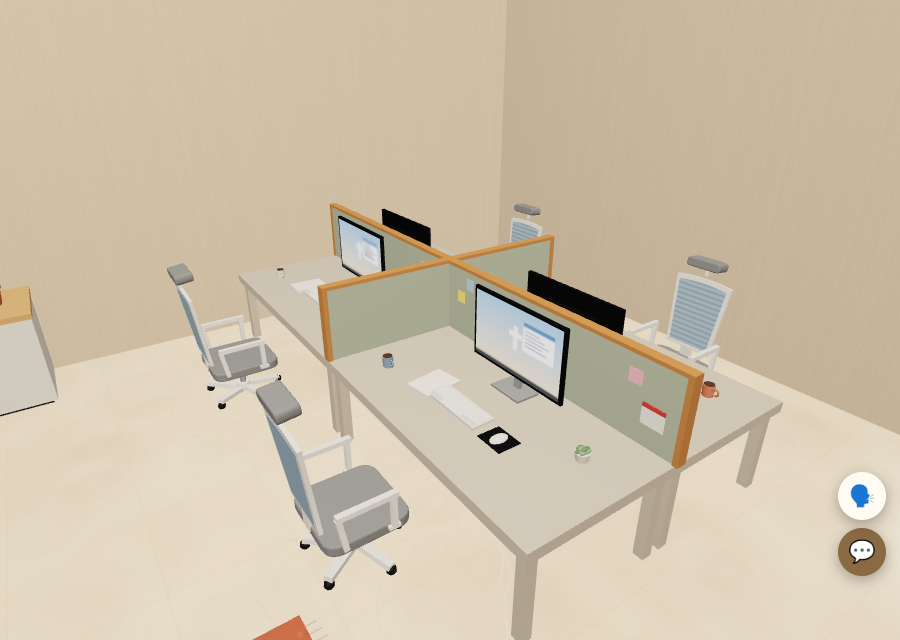
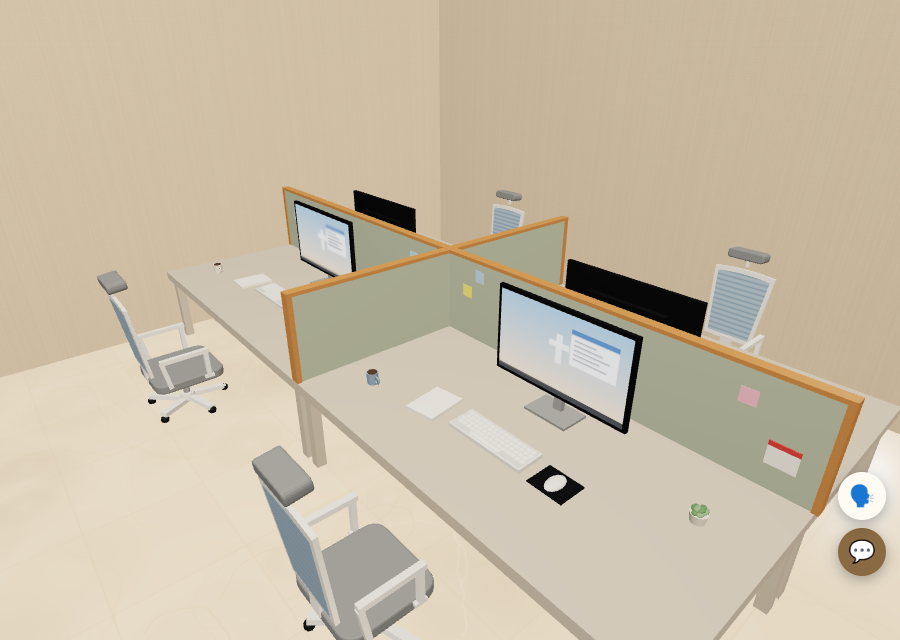
2층 사무실: 붙인 책상을 1.5×0.75m로 크게(칸막이 0.34m, 모니터 1.15배), 4인 탁자는 0.8×1.0m로 작게 + 카페트 1.7×2.0m · 의자·소품 맞춰 옮김
Claude-Session: https://claude.ai/code/session_01Vz1QJf3UdmpjXu7m5EnhFF

diff --git a/index.html b/index.html
@@ -1752,8 +1752,8 @@
           for (let i = 0; i < n; i++) { const t = (i - (n - 1) / 2) * ((len - 0.2) / n); g.userData.seats.push({ x: x + c * t + sn * 0.14, z: z - sn * t + c * 0.14, y: Y + 0.22, rot: rotY, kind: 'chair' }); }
         },
         // 컴퓨터 한 벌: 받침 달린 얇은 모니터(바탕화면) · 키보드 · 마우스와 패드. rotY: 앉은 사람 쪽(화면 앞)이 보는 방향 (0 = +z). 책상 윗면 0.38
-        computer(x, z, rotY) {
-          const g = new THREE.Group(); g.position.set(x, Y + 0.38, z); g.rotation.y = rotY; group.add(g);
+        computer(x, z, rotY, sc) {                                                   // sc = 크기 (없으면 1)
+          const g = new THREE.Group(); g.position.set(x, Y + 0.38, z); g.rotation.y = rotY; if (sc) g.scale.setScalar(sc); group.add(g);
           const M = (c, r, mt) => new THREE.MeshStandardMaterial({ color: c, roughness: r, metalness: mt || 0 });
           const dark = k._pcD || (k._pcD = M(0x1d1f23, 0.4)), silver = k._pcS || (k._pcS = M(0xc4c8cd, 0.3, 0.4)), keyM = k._pcK || (k._pcK = M(0xf1f1ef, 0.5));
           const scr = k._pcScr || (k._pcScr = (() => {                                 // 바탕화면: 하늘빛 그러데이션 + 작은 십자가 + 창 하나 + 아래 줄
@@ -2005,16 +2005,16 @@
       //   사용자 "공간이 허하다" → 회의 탁자 아래 따뜻한 카페트, 회의 의자는 크림색 부클레 원형 의자로, 동쪽 벽에 작은 홈카페장
       {
         const dk = k.M(0xcfc6b8), scr = k.M(0x22303f, 0.3);
-        k.table(-9.0, -4.6, 1.0, 1.4, k.M(0xa77b50));                              // 회의 탁자 (윗면 0.38)
+        k.table(-9.6, -4.3, 0.8, 1.0, k.M(0xa77b50));                              // 4인 탁자 (윗면 0.38) — 사용자 "탁자 자리는 작게"로 1.0×1.4 → 0.8×1.0
         const d = decoKit(F2_Y, f2);
-        // 0) 책상 4개를 한 덩어리로 붙임 (사용자 "책상들이 좀 붙어 있게, 파티션"): 북쪽 벽 앞에 2 × 2로 마주 보게
+        // 0) 책상 4개를 한 덩어리로 붙임 (사용자 "책상들이 좀 붙어 있게, 파티션" → "좀 더 크게"): 북쪽 벽 앞에 2 × 2로 마주 보게, 책상 1.5 × 0.75m · 모니터 1.15배
         //    북쪽 줄은 남쪽을 보고(의자는 벽 쪽), 남쪽 줄은 북쪽을 봄. 모니터는 가운데 칸막이 쪽.
         //    칸막이: 마주 보는 줄 사이 · 옆 책상 사이, 책상 위 0.3m 세이지 회색 천 + 원목 테, 칸막이에 메모지·달력
         {
-          const PX = [-11.45, -10.25], ZM = -6.95, DW = 1.2, DD = 0.6, PT = 0.38, PH = 0.3;
+          const PX = [-11.4, -9.9], ZM = -7.1, DW = 1.5, DD = 0.75, PT = 0.38, PH = 0.34;
           PX.forEach((x) => {
-            k.table(x, ZM - DD / 2, DW, DD, dk); k.computer(x, ZM - DD / 2, Math.PI); k.officeChair(x, ZM - DD / 2 - 0.5, 0);
-            k.table(x, ZM + DD / 2, DW, DD, dk); k.computer(x, ZM + DD / 2, 0); k.officeChair(x, ZM + DD / 2 + 0.5, Math.PI);
+            k.table(x, ZM - DD / 2, DW, DD, dk); k.computer(x, ZM - DD / 2, Math.PI, 1.15); k.officeChair(x, ZM - DD - 0.2, 0);
+            k.table(x, ZM + DD / 2, DW, DD, dk); k.computer(x, ZM + DD / 2, 0, 1.15); k.officeChair(x, ZM + DD + 0.2, Math.PI);
           });
           const felt = d.mat(0xb5c0ae, 1), rail = d.mat(0xc98f55, 0.55), x0 = PX[0] - DW / 2, x1 = PX[1] + DW / 2, xm = (PX[0] + PX[1]) / 2;
           d.box(x1 - x0, PH, 0.03, (x0 + x1) / 2, PT, ZM, felt); d.box(x1 - x0 + 0.01, 0.014, 0.04, (x0 + x1) / 2, PT + PH, ZM, rail);
@@ -2025,14 +2025,14 @@
           let n = 0;
           PX.forEach((x) => [-1, 1].forEach((side) => {
             const fz = ZM + side * 0.0165, uz = ZM + side * DD / 2, sd = side;   // fz: 칸막이 면 · uz: 책상 가운데 (side -1 = 북쪽 줄)
-            [[-0.43, 0.6], [-0.49, 0.53], [0.42, 0.58]].forEach(([dx, y], i) => d.box(0.05, 0.05, 0.002, x + dx, y, fz, d.mat(NOTE[(n + i) % 4], 0.8), (i - 1) * 0.08));
-            d.box(0.085, 0.075, 0.002, x + 0.5, PT + 0.08, fz, white); d.box(0.085, 0.016, 0.0025, x + 0.5, PT + 0.14, fz, red);
-            const ux = x + (n % 2 ? -0.42 : 0.42), wz = uz + sd * 0.12, m = d.mat([0xa9bfa3, 0xf3ebdc, 0xd9876a, 0x8fa9c4][n], 0.45);
+            [[-0.55, 0.64], [-0.62, 0.56], [0.52, 0.61]].forEach(([dx, y], i) => d.box(0.05, 0.05, 0.002, x + dx, y, fz, d.mat(NOTE[(n + i) % 4], 0.8), (i - 1) * 0.08));
+            d.box(0.085, 0.075, 0.002, x + 0.64, PT + 0.08, fz, white); d.box(0.085, 0.016, 0.0025, x + 0.64, PT + 0.14, fz, red);
+            const ux = x + (n % 2 ? -0.56 : 0.56), wz = uz + sd * 0.16, m = d.mat([0xa9bfa3, 0xf3ebdc, 0xd9876a, 0x8fa9c4][n], 0.45);
             d.cyl(0.022, 0.02, 0.045, ux, PT, wz, m); d.cyl(0.0185, 0.0185, 0.002, ux, PT + 0.045, wz, inside); d.ring(0.012, 0.004, ux + 0.027, PT + 0.023, wz, m);
-            const px = x - (n % 2 ? -0.42 : 0.42), pz = uz - sd * 0.08;
+            const px = x - (n % 2 ? -0.56 : 0.56), pz = uz - sd * 0.1;
             if (n % 2) { d.cyl(0.025, 0.02, 0.03, px, PT, pz, d.mat(0xece6da, 0.6)); for (let i = 0; i < 7; i++) { const a = i * 2.4, r = i < 2 ? 0.005 : 0.013; d.ball(0.01, px + Math.cos(a) * r, PT + 0.036 + (i < 2 ? 0.006 : 0), pz + Math.sin(a) * r, d.mat(i % 2 ? 0x8fb08a : 0x6f9a6a, 0.7), 1, 0.6, 1.4); } }
             else { d.cyl(0.018, 0.018, 0.05, px, PT, pz, d.mat(0xc98f55, 0.55)); [0x2f5d8a, 0xd9534f, 0x222222].forEach((c, i) => d.put(new THREE.CylinderGeometry(0.003, 0.003, 0.09, 6).rotateZ((i - 1) * 0.12), d.mat(c, 0.5), px + (i - 1) * 0.006, PT + 0.06, pz)); }
-            d.box(0.12, 0.012, 0.16, x - (n % 2 ? 0.2 : -0.22), PT, uz + sd * 0.05, white, (n - 1.5) * 0.1);
+            d.box(0.12, 0.012, 0.16, x - (n % 2 ? 0.3 : -0.3), PT, uz + sd * 0.08, white, (n - 1.5) * 0.1);
             n++;
           }));
         }
@@ -2067,7 +2067,7 @@
           d.box(0.04, 0.012, 0.5, WX + 0.02, 0.79, zc, d.mat(0xc9ccd0, 0.3, 0.5));
           [[0.1, 0x2f5d8a], [0.04, 0xb5443a], [-0.03, 0x3f7d4e]].forEach(([dz, c]) => d.put(new THREE.CylinderGeometry(0.006, 0.006, 0.07, 8).rotateX(Math.PI / 2), d.mat(c, 0.5), WX + 0.025, 0.808, zc + dz));
         }
-        // 1) 카페트 (2.2 × 2.6m): 테라코타 테두리 · 크림 띠(작은 마름모) · 겨자색 줄 · 크림 바탕에 마름모 격자 · 가운데 무늬, 양 끝 술
+        // 1) 카페트 (1.7 × 2.0m, 4인 탁자에 맞춰 작게): 테라코타 테두리 · 크림 띠(작은 마름모) · 겨자색 줄 · 크림 바탕에 마름모 격자 · 가운데 무늬, 양 끝 술
         {
           const c = document.createElement('canvas'); c.width = 256; c.height = 304; const g = c.getContext('2d');
           g.fillStyle = '#b8664a'; g.fillRect(0, 0, 256, 304);
@@ -2087,10 +2087,10 @@
           let s = 11; const rr = () => (s = (s * 9301 + 49297) % 233280) / 233280;
           for (let i = 0; i < 1400; i++) { g.fillStyle = rr() < 0.5 ? 'rgba(255,250,240,0.12)' : 'rgba(90,60,40,0.08)'; g.fillRect(rr() * 256, rr() * 304, 2, 1); }
           const t = new THREE.CanvasTexture(c); if ('colorSpace' in t) t.colorSpace = THREE.SRGBColorSpace; t.anisotropy = 4;
-          const rug = new THREE.Mesh(new THREE.BoxGeometry(2.2, 0.01, 2.6), new THREE.MeshStandardMaterial({ map: t, roughness: 0.95 }));
-          rug.position.set(-9.0, F2_Y + 0.016, -4.6); rug.receiveShadow = true; f2.add(rug);
+          const rug = new THREE.Mesh(new THREE.BoxGeometry(1.7, 0.01, 2.0), new THREE.MeshStandardMaterial({ map: t, roughness: 0.95 }));
+          rug.position.set(-9.6, F2_Y + 0.016, -4.3); rug.receiveShadow = true; f2.add(rug);
           const fr = d.mat(0xf1e4cd, 1);
-          for (let i = 0; i < 72; i++) { const x = -10.08 + (i + 0.5) * 2.16 / 72; [-5.9, -3.3].forEach((z, j) => d.box(0.008, 0.004, 0.035 + (i % 3) * 0.005, x, 0.011, z + (j ? 1 : -1) * (0.017 + (i % 3) * 0.0025), fr)); }
+          for (let i = 0; i < 56; i++) { const x = -10.43 + (i + 0.5) * 1.66 / 56; [-5.3, -3.3].forEach((z, j) => d.box(0.008, 0.004, 0.035 + (i % 3) * 0.005, x, 0.011, z + (j ? 1 : -1) * (0.017 + (i % 3) * 0.0025), fr)); }
         }
         // 2) 회의 의자: 크림색 부클레(몽글한 천) 원형 의자 — 둥글게 감싸는 등받이 · 도톰한 방석 · 밝은 원목 다리 4 (앉는 높이 0.20m)
         {
@@ -2112,17 +2112,17 @@
             add(backG, boucle, 0, 0.16, 0);
             gp.userData.seat = { x, y: F2_Y + 0.20, z, rot: rotY, kind: 'chair' };
           };
-          [[-9.0, -5.55, 0], [-9.0, -3.65, Math.PI], [-9.75, -4.6, Math.PI / 2], [-8.25, -4.6, -Math.PI / 2]].forEach(([x, z, r]) => boucleChair(x, z, r));
+          [[-9.6, -5.0, 0], [-9.6, -3.6, Math.PI], [-10.2, -4.3, Math.PI / 2], [-9.0, -4.3, -Math.PI / 2]].forEach(([x, z, r]) => boucleChair(x, z, r));
         }
         // 3) 탁자 위: 작은 유리 꽃병(마른 꽃) · 머그 둘 · 펼친 공책과 연필
         {
           const T = 0.38, gl = d.mat(0xdfeef2, 0.05, 0, 0.45), dry = d.mat(0xc9a27a, 0.9), dry2 = d.mat(0xe8d6b5, 0.9), stem = d.mat(0x8a7a5a, 0.9), inside = d.mat(0x5b4636, 0.9);
-          d.cyl(0.025, 0.02, 0.08, -9.0, T, -4.75, gl);
+          d.cyl(0.025, 0.02, 0.08, -9.6, T, -4.42, gl);
           for (let i = 0; i < 7; i++) { const a = i * 0.9, h = 0.13 + (i % 3) * 0.025, tl = 0.25, g = new THREE.CylinderGeometry(0.002, 0.002, h, 4); g.translate(0, h / 2, 0); g.rotateZ(-Math.cos(a) * tl); g.rotateX(Math.sin(a) * tl);
-            d.put(g, stem, -9.0, T + 0.01, -4.75); d.ball(0.011, -9.0 + h * Math.sin(Math.cos(a) * tl), T + 0.01 + h * Math.cos(tl * 0.9), -4.75 + h * Math.sin(Math.sin(a) * tl), i % 2 ? dry : dry2, 1, 1.3, 1); }
-          [[-9.22, -4.35, 0xa9bfa3], [-8.8, -4.95, 0xf3ebdc]].forEach(([x, z, c]) => { const m = d.mat(c, 0.45); d.cyl(0.022, 0.02, 0.045, x, T, z, m); d.cyl(0.0185, 0.0185, 0.002, x, T + 0.045, z, inside); d.ring(0.012, 0.004, x + 0.027, T + 0.023, z, m); });
-          d.box(0.16, 0.006, 0.11, -8.82, T, -4.3, d.mat(0x8a5a3c, 0.7)); [-1, 1].forEach((sd) => d.box(0.075, 0.006, 0.1, -8.82 + sd * 0.039, T + 0.006, -4.3, d.mat(0xfbf8f0, 0.9), sd * 0.03));
-          d.put(new THREE.CylinderGeometry(0.003, 0.003, 0.09, 6).rotateZ(Math.PI / 2).rotateY(0.5), d.mat(0xd9a441, 0.5), -8.8, T + 0.016, -4.22);
+            d.put(g, stem, -9.6, T + 0.01, -4.42); d.ball(0.011, -9.6 + h * Math.sin(Math.cos(a) * tl), T + 0.01 + h * Math.cos(tl * 0.9), -4.42 + h * Math.sin(Math.sin(a) * tl), i % 2 ? dry : dry2, 1, 1.3, 1); }
+          [[-9.8, -4.05, 0xa9bfa3], [-9.42, -4.62, 0xf3ebdc]].forEach(([x, z, c]) => { const m = d.mat(c, 0.45); d.cyl(0.022, 0.02, 0.045, x, T, z, m); d.cyl(0.0185, 0.0185, 0.002, x, T + 0.045, z, inside); d.ring(0.012, 0.004, x + 0.027, T + 0.023, z, m); });
+          d.box(0.16, 0.006, 0.11, -9.45, T, -4.05, d.mat(0x8a5a3c, 0.7)); [-1, 1].forEach((sd) => d.box(0.075, 0.006, 0.1, -9.45 + sd * 0.039, T + 0.006, -4.05, d.mat(0xfbf8f0, 0.9), sd * 0.03));
+          d.put(new THREE.CylinderGeometry(0.003, 0.003, 0.09, 6).rotateZ(Math.PI / 2).rotateY(0.5), d.mat(0xd9a441, 0.5), -9.43, T + 0.016, -3.97);
         }
         // 4) 동쪽 벽 작은 홈카페장 (폭 1.1m): 세이지색 서랍 3 · 문 2 + 원목 상판, 크림 정사각 타일, 원목 벽장(2단 두 칸) + 아래 조명줄, '잠깐 쉬어가요' 작은 간판
         //    상판 위: 찻상자 · 스틱 컵 · 캡슐 커피 머신(머그) · 캡슐 유리병 · 전기 주전자 · 수건 위 머그 셋 · 쿠키 병 · 꽃병

diff --git a/docs/verification/2026-11-08/REPORT.md b/docs/verification/2026-11-08/REPORT.md
@@ -16,3 +16,10 @@
 - 책상 의자 4개 모두 앉을 자리로 잡힘, 북쪽 줄(벽 쪽)·남쪽 줄 의자 눌러서 앉으면 의자 자리에 정확히 앉음(거리 0)
 - 사진 찍을 때 카메라를 그리기 직전에 고정하도록 검사 스크립트를 고침(따라가는 카메라가 옮기던 문제)
 - 사진: office-top.png(사무실 전체), office-desk.png(붙인 책상·칸막이), office-wall.png(수납장·복합기·화이트보드)
+
+## 이어서: "좀 더 크기가 크게, 오히려 4인 식탁 자리는 작게"
+- 책상 1.2 × 0.6m → 1.5 × 0.75m (가운데 x -11.4 · -9.9, 칸막이 줄 z -7.1), 칸막이 높이 0.3 → 0.34m, 모니터 1.15배(`k.computer`에 크기 값 추가)
+  - 의자: 북쪽 줄 z -8.05(벽 쪽) · 남쪽 줄 z -6.15, 메모지 · 달력 · 책상 소품도 넓어진 책상에 맞춰 옮김
+- 4인 탁자 1.0 × 1.4m → 0.8 × 1.0m, 가운데 (-9.6, -4.3)로 옮김. 카페트 2.2 × 2.6 → 1.7 × 2.0m, 부클레 의자 4개도 탁자 둘레로 붙임, 탁자 위 소품 옮김
+- 확인: 화면 오류 없음, 걷기 길 모두 감, 책상 의자 4 · 탁자 의자 4 모두 앉을 자리로 잡힘, 북쪽 줄·남쪽 줄 의자에 정확히 앉음
+- 사진(덮어씀): office-top.png, office-desk.png, office-meet.png(새로, 문 쪽에서 본 모습)
